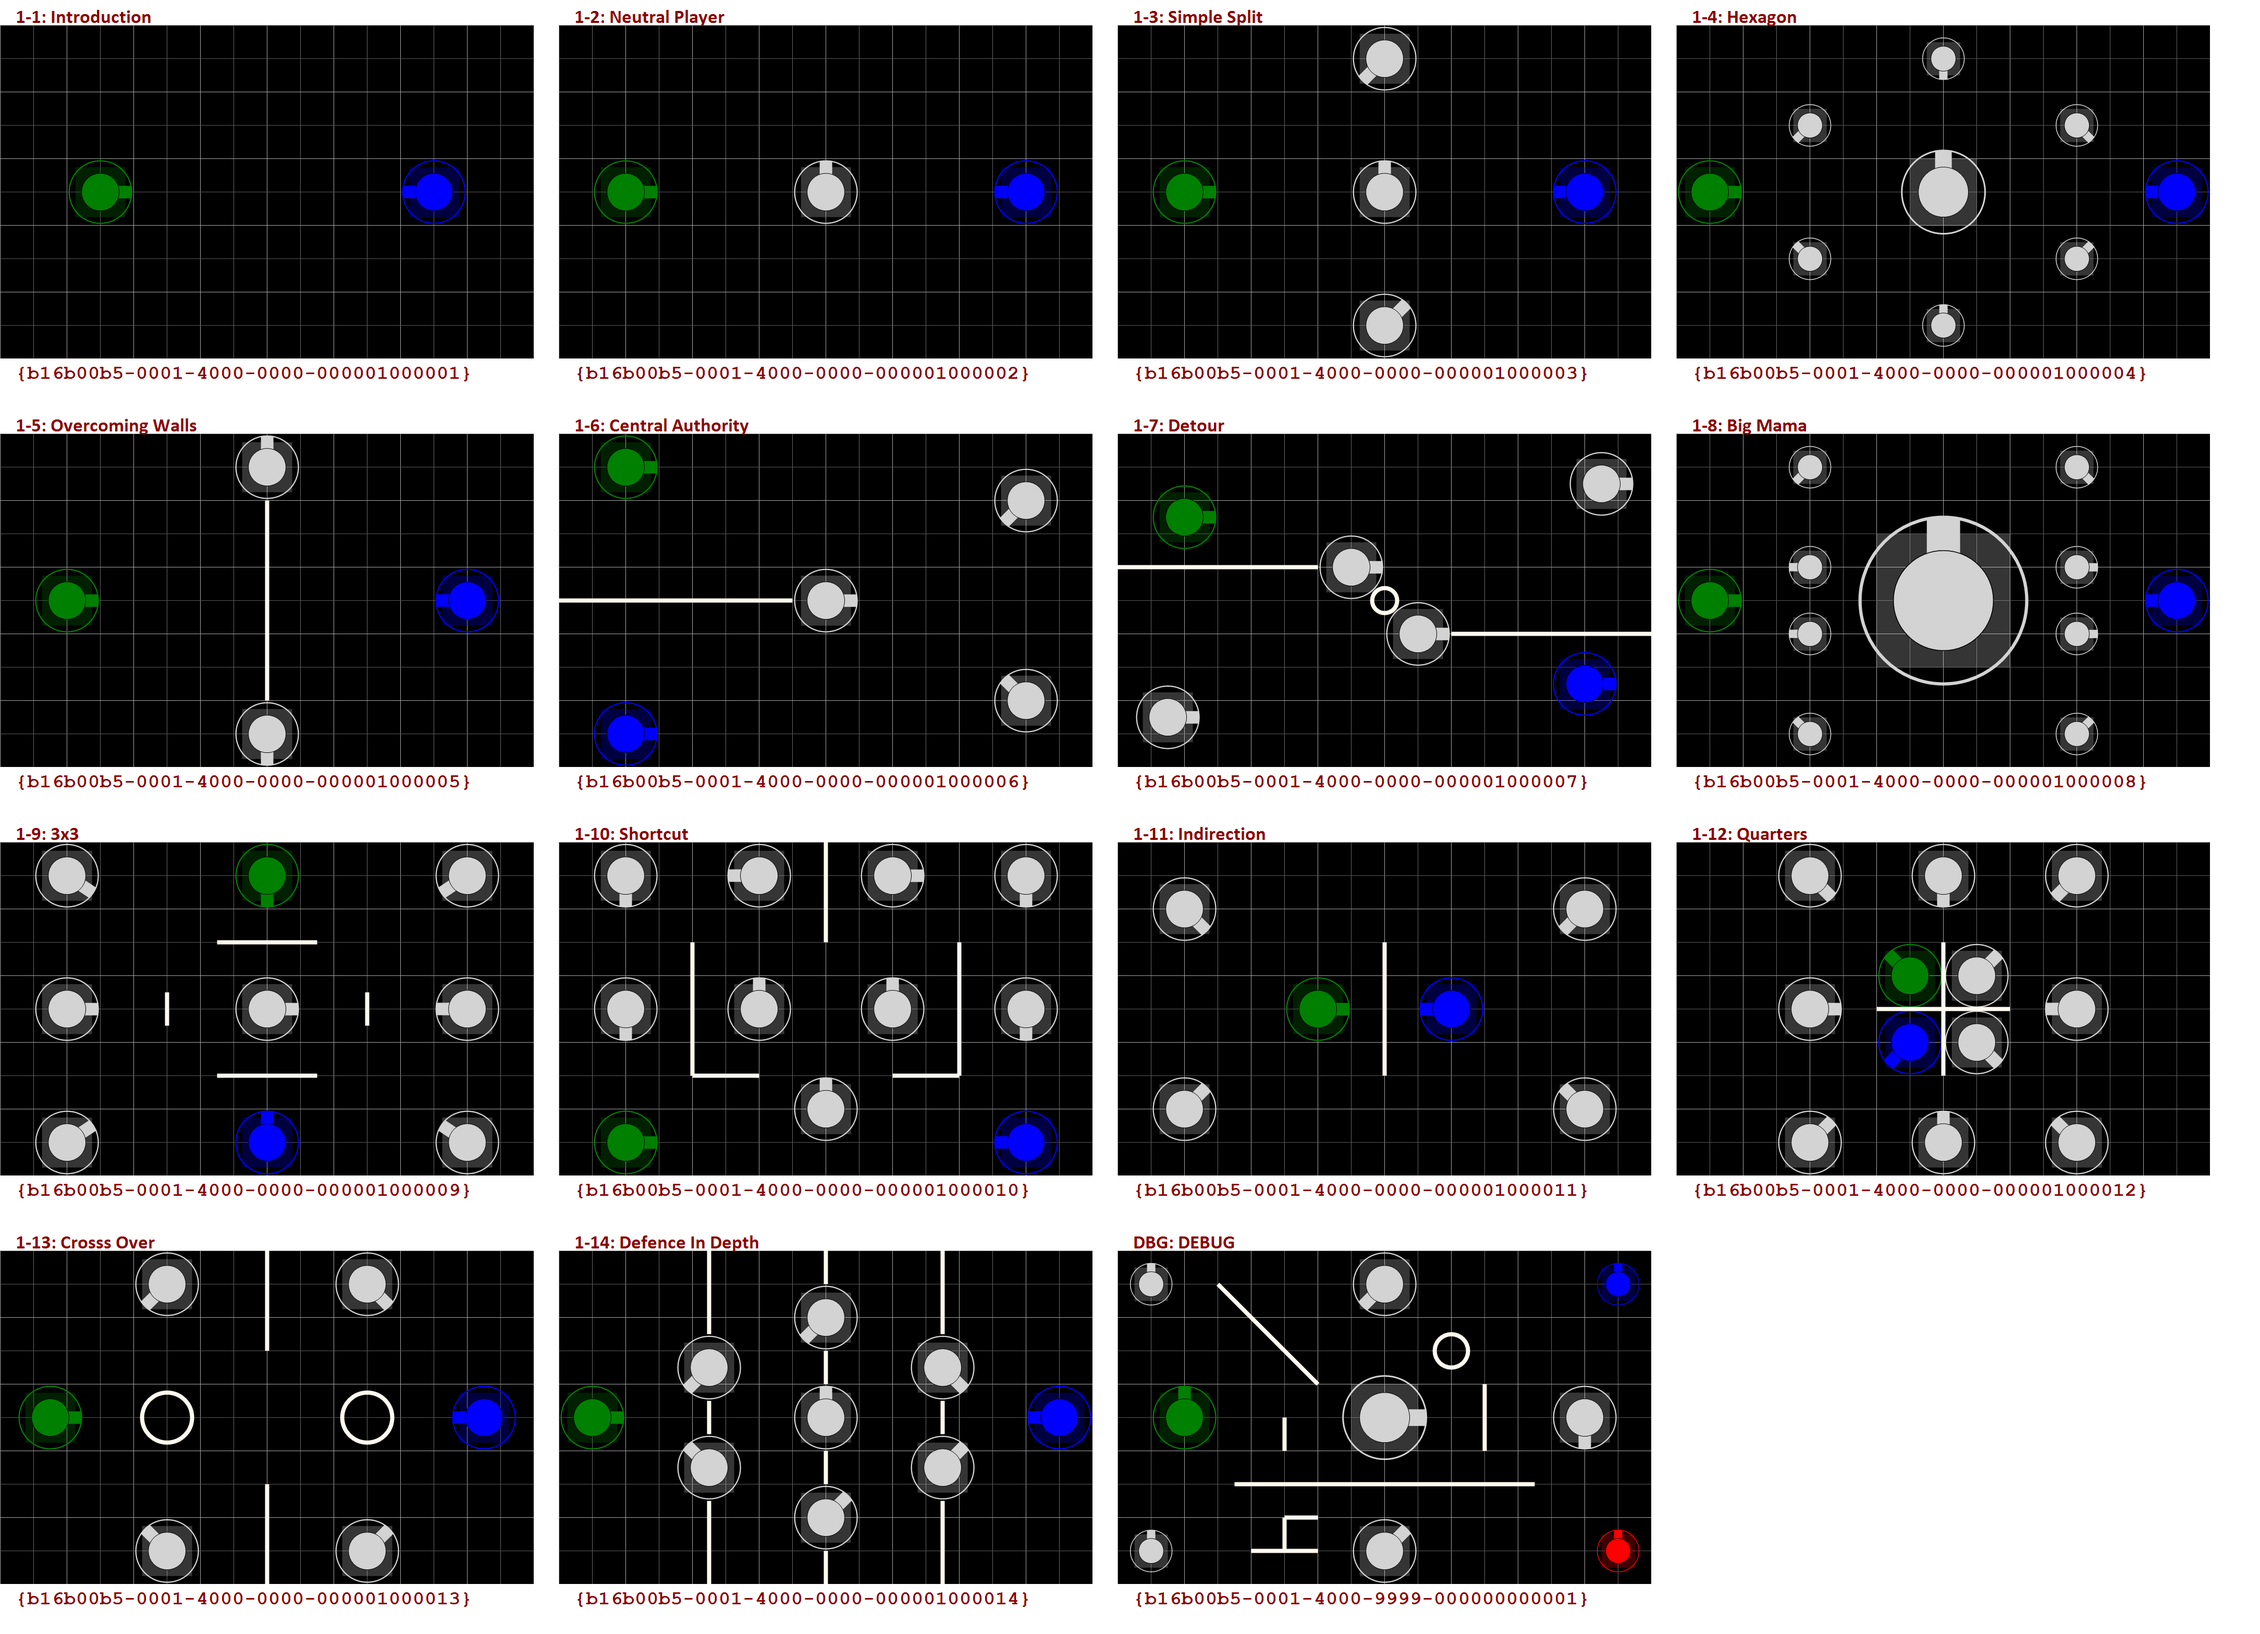
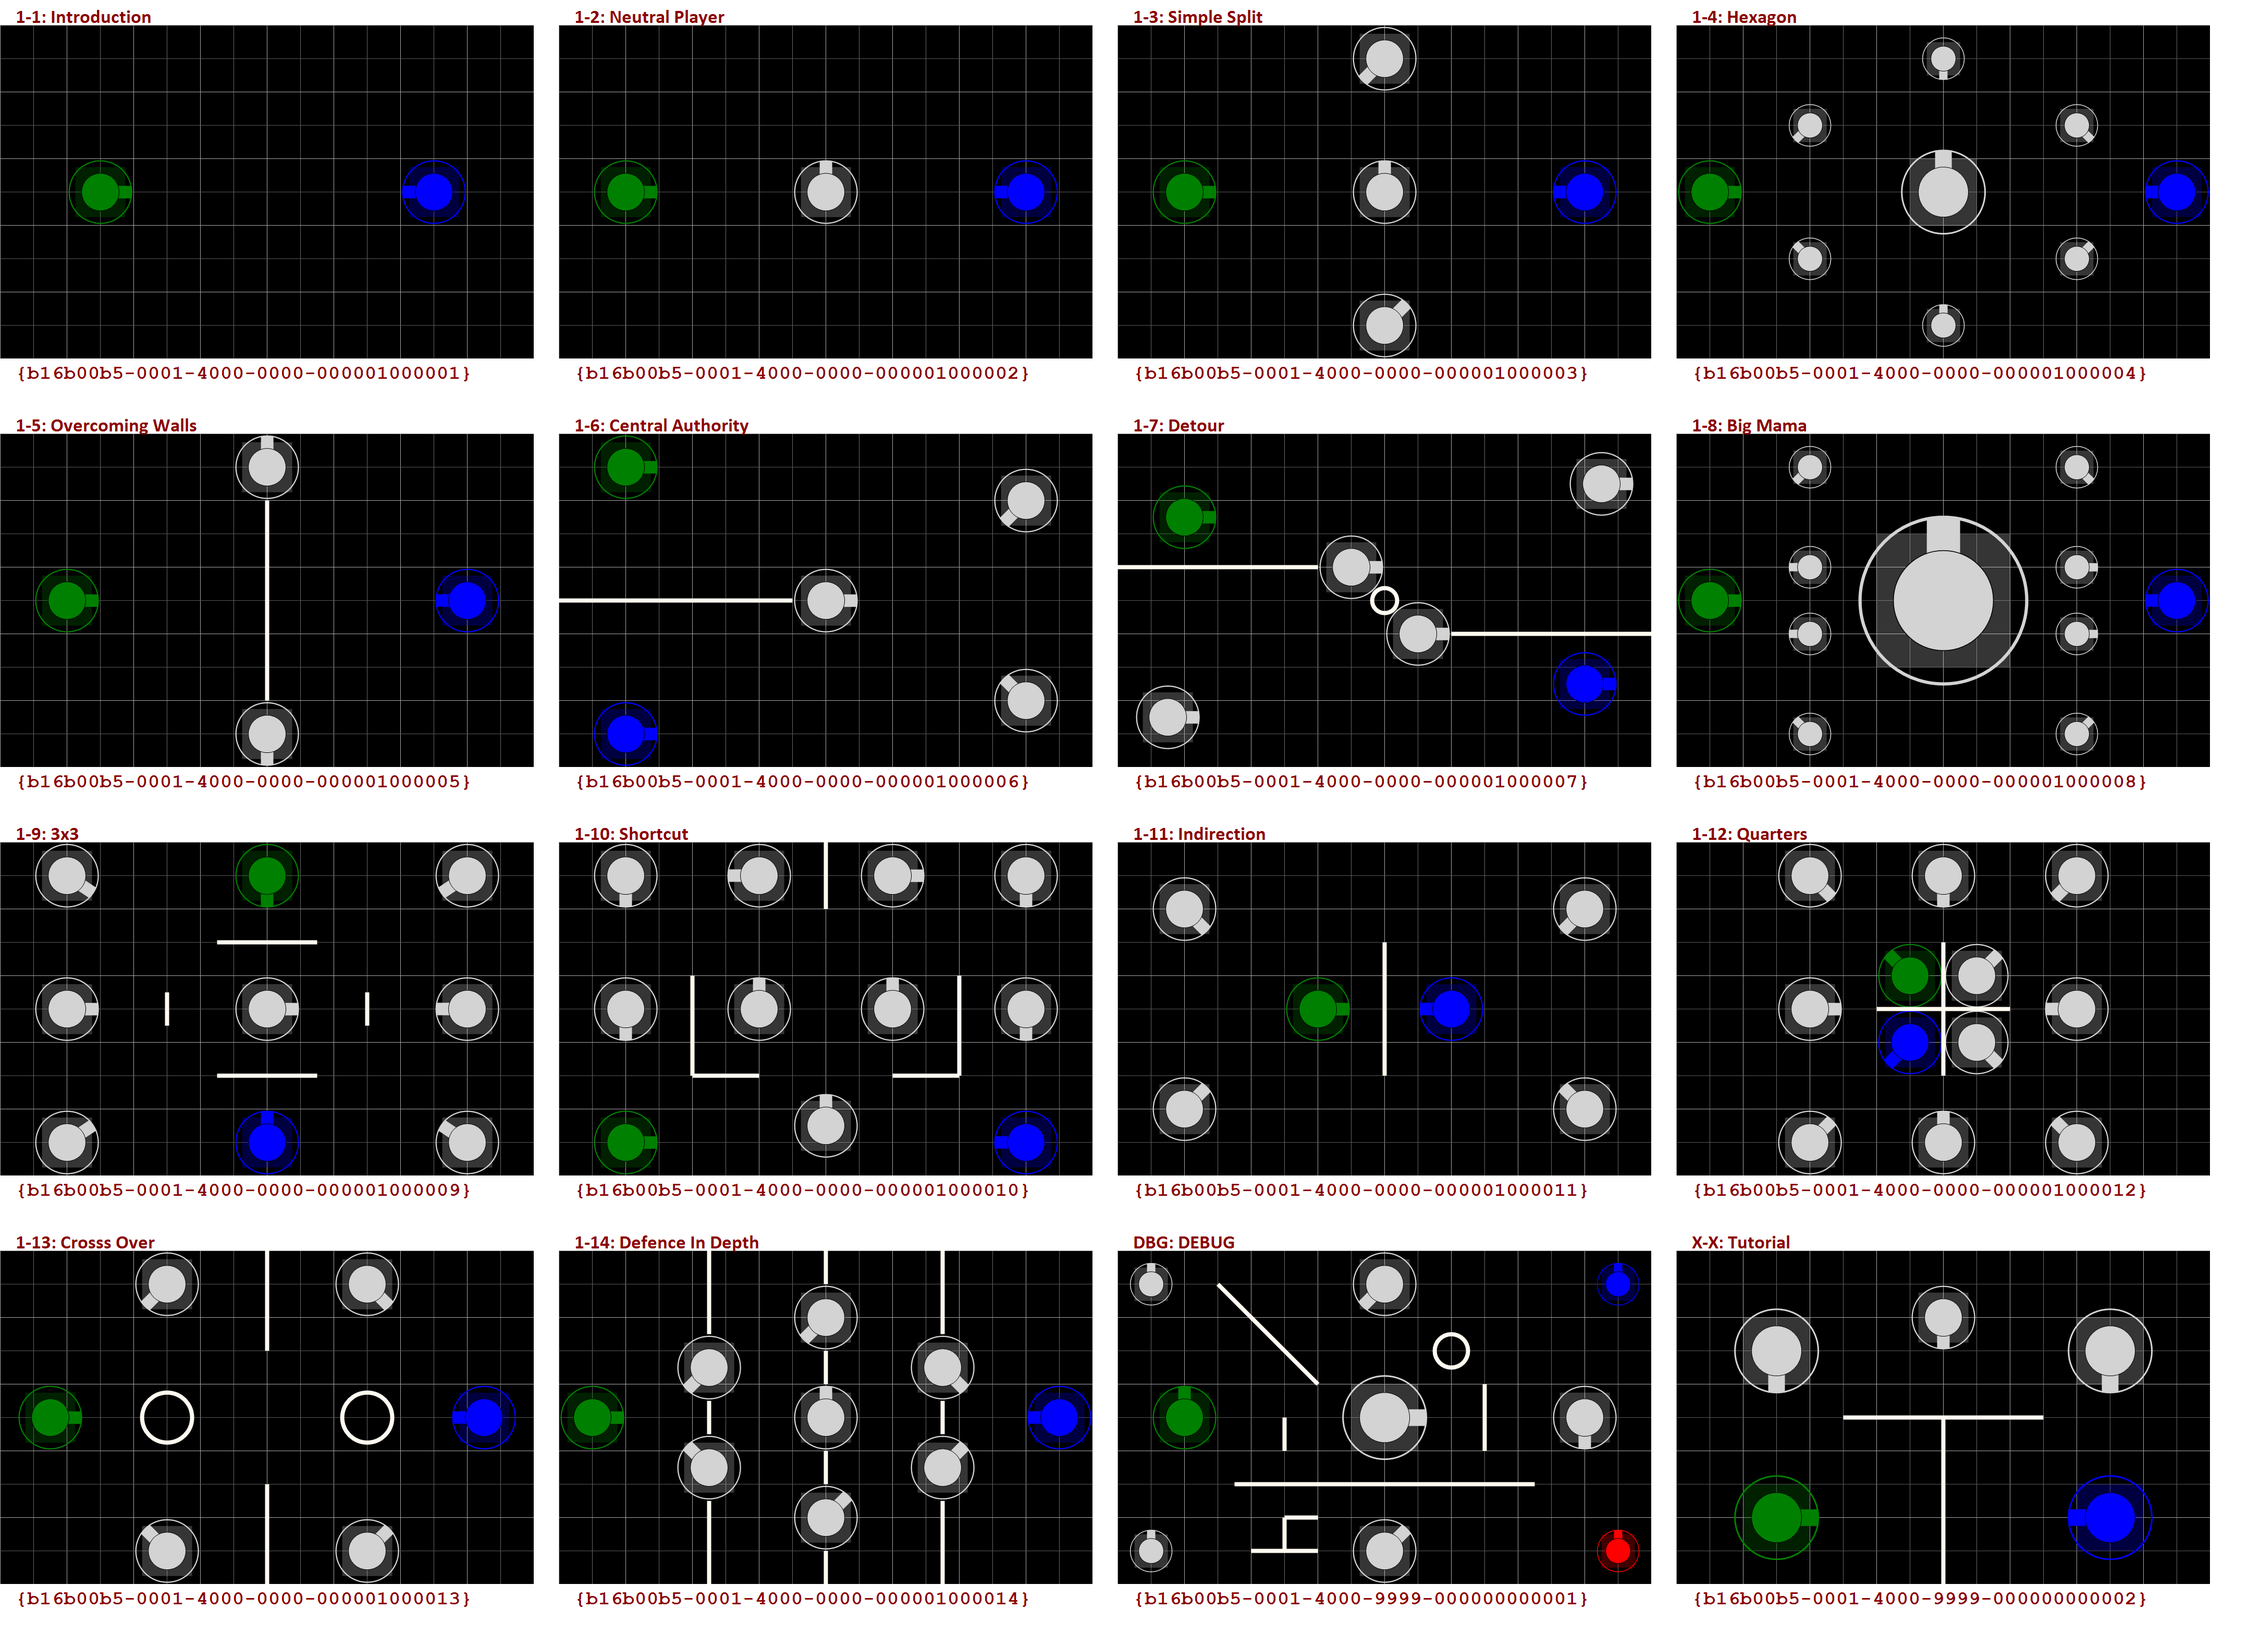
auto pack in DSLEditor

Changed region(s): [[0.7161, 0.75, 0.9963, 1.0], [0.3425, 0.6562, 0.3736, 0.7188]]

diff --git a/Source/DSLEditor/MainWindow.xaml b/Source/DSLEditor/MainWindow.xaml
@@ -33,7 +33,7 @@
 			<Button Grid.Column="1" Margin="4" MinWidth="80" MinHeight="26" Content="Reload"   Click="{mext:EventBinding ReloadCommand}" />
 			<Button Grid.Column="2" Margin="4" MinWidth="80" MinHeight="26" Content="Save"     Click="{mext:EventBinding SaveCommand}" />
 			<Button Grid.Column="3" Margin="4" MinWidth="80" MinHeight="26" Content="Compile"  Click="{mext:EventBinding CompileCommand}" />
-			<Button Grid.Column="4" Margin="4" MinWidth="80" MinHeight="26" Content="Overview" Click="{mext:EventBinding OverviewCommand}" />
+            <Button Grid.Column="4" Margin="4" MinWidth="80" MinHeight="26" Content="Pack"     Click="{mext:EventBinding PackCommand}" />
 		</Grid>
 
 		<Border Grid.Row="1" Margin="2" Background="#222" RenderOptions.BitmapScalingMode="HighQuality" RenderOptions.EdgeMode="Aliased">

diff --git a/Source/DSLEditor/MainWindowViewModel.Graph.cs b/Source/DSLEditor/MainWindowViewModel.Graph.cs
@@ -4,6 +4,9 @@ using GridDominance.Graphfileformat.Blueprint;
 using System;
 using System.Diagnostics;
 using System.IO;
+using System.Linq;
+using System.Text;
+using System.Windows;
 using GridDominance.SAMScriptParser;
 
 namespace GridDominance.DSLEditor
@@ -103,6 +106,85 @@ namespace GridDominance.DSLEditor
 		private GraphBlueprint ParseGraphFile()
 		{
 			return new GraphParser(Code).Parse();
+		}
+
+		private void UpdateGuids()
+		{
+			if (!File.Exists(FilePath)) { MessageBox.Show("No root folder"); return; }
+			var folder = Path.GetDirectoryName(FilePath);
+			if (!Directory.Exists(folder)) { MessageBox.Show("No root folder"); return; }
+			if (!folder.ToLower().Trim('\\').EndsWith("GridDominance.Shared\\Content\\levels".ToLower())) { MessageBox.Show("Invalid root folder"); return; }
+
+			var files = Directory.EnumerateFiles(folder).Where(p => Path.GetExtension(p).ToLower() == ".gslevel").ToList();
+			var levls = files.Select(ParseSpecificLevelFile).ToList();
+
+			{
+				var f0 = Path.Combine(folder, @"..\..\..\GridDominance.Shared\Content\Content.mgcb");
+
+				if (File.Exists(f0))
+				{
+					var txt0 = File.ReadAllText(f0);
+					foreach (var f in files)
+					{
+						if (!txt0.Contains($"#begin levels/{Path.GetFileName(f)}"))
+						{
+							txt0 += $"#begin levels/{Path.GetFileName(f)}\r\n";
+							txt0 += $"/importer:GDLevelImporter\r\n";
+							txt0 += $"/processor:GDLevelProcessor\r\n";
+							txt0 += $"/build:levels/{Path.GetFileName(f)}\r\n";
+							txt0 += $"\r\n";
+						}
+					}
+					if (File.ReadAllText(f0) != txt0) File.WriteAllText(f0, txt0);
+				}
+				else
+				{
+					MessageBox.Show("FileNotFound: " + f0);
+				}
+			}
+
+			{
+				var f1 = Path.Combine(folder, @"..\..\Resources\Levels.cs");
+
+				if (File.Exists(f1))
+				{
+					var txt1 = File.ReadAllText(f1);
+					foreach (var loadstr in files.Select(f => $"LoadLevel(content, \"levels/{Path.GetFileNameWithoutExtension(f)}\");"))
+					{
+						if (!txt1.Contains(loadstr))
+						{
+							txt1 = txt1.Replace("/* [MARK_LOAD_LEVEL] */", $"{loadstr}\r\n\t\t\t/* [MARK_LOAD_LEVEL] */");
+						}
+					}
+					if (File.ReadAllText(f1) != txt1) File.WriteAllText(f1, txt1);
+				}
+				else
+				{
+					MessageBox.Show("FileNotFound: " + f1);
+				}
+			}
+
+			{
+				var f2 = Path.Combine(folder, @"..\..\..\GridDominance.Server\internals\config_levelids.php");
+				StringBuilder txt2 = new StringBuilder();
+				txt2.AppendLine("<?php");
+				txt2.AppendLine();
+				txt2.AppendLine("if(count(get_included_files()) ==1) exit(\"Direct access not permitted.\");");
+				txt2.AppendLine();
+				txt2.AppendLine("return [");
+				foreach (var l in levls) txt2.AppendLine($"\t'{l.UniqueID:B}', // {l.Name, -8} | {l.FullName}");
+				txt2.AppendLine("];");
+
+				if (File.Exists(f2))
+				{
+					File.WriteAllText(f2, txt2.ToString());
+				}
+				else
+				{
+					MessageBox.Show("FileNotFound: " + f2);
+				}
+
+			}
 		}
 	}
 }

diff --git a/Source/GridDominance.Server/internals/config_levelids.php b/Source/GridDominance.Server/internals/config_levelids.php
@@ -3,19 +3,20 @@
 if(count(get_included_files()) ==1) exit("Direct access not permitted.");
 
 return [
-	'{b16b00b5-0001-4000-9999-000000000002}',
-	'{b16b00b5-0001-4000-0000-000001000001}',
-	'{b16b00b5-0001-4000-0000-000001000002}',
-	'{b16b00b5-0001-4000-0000-000001000003}',
-	'{b16b00b5-0001-4000-0000-000001000004}',
-	'{b16b00b5-0001-4000-0000-000001000005}',
-	'{b16b00b5-0001-4000-0000-000001000006}',
-	'{b16b00b5-0001-4000-0000-000001000007}',
-	'{b16b00b5-0001-4000-0000-000001000008}',
-	'{b16b00b5-0001-4000-0000-000001000009}',
-	'{b16b00b5-0001-4000-0000-000001000010}',
-	'{b16b00b5-0001-4000-0000-000001000011}',
-	'{b16b00b5-0001-4000-0000-000001000012}',
-	'{b16b00b5-0001-4000-0000-000001000013}',
-	'{b16b00b5-0001-4000-0000-000001000014}',
+	'{b16b00b5-0001-4000-0000-000001000001}', // 1-1      | Introduction
+	'{b16b00b5-0001-4000-0000-000001000002}', // 1-2      | Neutral Player
+	'{b16b00b5-0001-4000-0000-000001000003}', // 1-3      | Simple Split
+	'{b16b00b5-0001-4000-0000-000001000004}', // 1-4      | Hexagon
+	'{b16b00b5-0001-4000-0000-000001000005}', // 1-5      | Overcoming Walls
+	'{b16b00b5-0001-4000-0000-000001000006}', // 1-6      | Central Authority
+	'{b16b00b5-0001-4000-0000-000001000007}', // 1-7      | Detour
+	'{b16b00b5-0001-4000-0000-000001000008}', // 1-8      | Big Mama
+	'{b16b00b5-0001-4000-0000-000001000009}', // 1-9      | 3x3
+	'{b16b00b5-0001-4000-0000-000001000010}', // 1-10     | Shortcut
+	'{b16b00b5-0001-4000-0000-000001000011}', // 1-11     | Indirection
+	'{b16b00b5-0001-4000-0000-000001000012}', // 1-12     | Quarters
+	'{b16b00b5-0001-4000-0000-000001000013}', // 1-13     | Crosss Over
+	'{b16b00b5-0001-4000-0000-000001000014}', // 1-14     | Defence In Depth
+	'{b16b00b5-0001-4000-9999-000000000001}', // DBG      | DEBUG
+	'{b16b00b5-0001-4000-9999-000000000002}', // X-X      | Tutorial
 ];

diff --git a/Source/DSLEditor/MainWindowViewModel.cs b/Source/DSLEditor/MainWindowViewModel.cs
@@ -21,7 +21,7 @@ namespace GridDominance.DSLEditor
 		public ICommand ReloadCommand => new RelayCommand(r => Reload());
 		public ICommand SaveCommand => new RelayCommand(Save);
 		public ICommand CompileCommand => new RelayCommand(Compile); 
-		public ICommand OverviewCommand => new RelayCommand(LevelOverview);
+		public ICommand PackCommand => new RelayCommand(Pack);
 		public ICommand RepaintCommand => new RelayCommand(Repaint);
 		public ICommand UUIDCommand => new RelayCommand(InsertUUID);
 		public ICommand ClosingCommand => new RelayCommand<CancelEventArgs>(FormClosing);
@@ -251,6 +251,27 @@ namespace GridDominance.DSLEditor
 			}
 
 			return true;
+		}
+
+		private void Pack()
+		{
+			try
+			{
+				LevelOverview();
+			}
+			catch (Exception e)
+			{
+				MessageBox.Show("LevelOverview failed:\r\n" + e);
+			}
+
+			try
+			{
+				UpdateGuids();
+			}
+			catch (Exception e)
+			{
+				MessageBox.Show("UpdateGuids failed:\r\n" + e);
+			}
 		}
 	}
 }

diff --git a/Source/DSLEditor/MainWindowViewModel.Level.cs b/Source/DSLEditor/MainWindowViewModel.Level.cs
@@ -10,6 +10,7 @@ using System.IO;
 using System.Linq;
 using System.Text;
 using System.Text.RegularExpressions;
+using System.Windows;
 
 namespace GridDominance.DSLEditor
 {
@@ -226,16 +227,16 @@ namespace GridDominance.DSLEditor
 				}
 			}
 
-			FileDialog sfd = new SaveFileDialog
+
+			var fileOut = Path.Combine(folder, @"..\..\..\..\Data\overview.png");
+
+			if (!File.Exists(fileOut))
 			{
-				DefaultExt = ".png",
-				InitialDirectory = folder,
-				FileName = "overview.png",
-			};
-			if (sfd.ShowDialog() == true)
-			{
-				bmp.Save(sfd.FileName);
+				MessageBox.Show("FileNotFound: " + fileOut);
+				return;
 			}
+
+			bmp.Save(fileOut);
 		}
 
 		public string GenerateASCIIMap(LevelBlueprint l)

diff --git a/Source/GridDominance.Shared/Resources/Levels.cs b/Source/GridDominance.Shared/Resources/Levels.cs
@@ -1,4 +1,4 @@
-using System;
+using System;
 using System.Collections.Generic;
 using GridDominance.Graphfileformat.Blueprint;
 using GridDominance.Levelfileformat.Blueprint;
@@ -41,6 +41,7 @@ namespace GridDominance.Shared.Resources
 			LoadLevel(content, "levels/lvl012");
 			LoadLevel(content, "levels/lvl013");
 			LoadLevel(content, "levels/lvl014");
+			/* [MARK_LOAD_LEVEL] */
 
 			WORLD_001 = LoadWorld(content, "levels/world_1");
 
